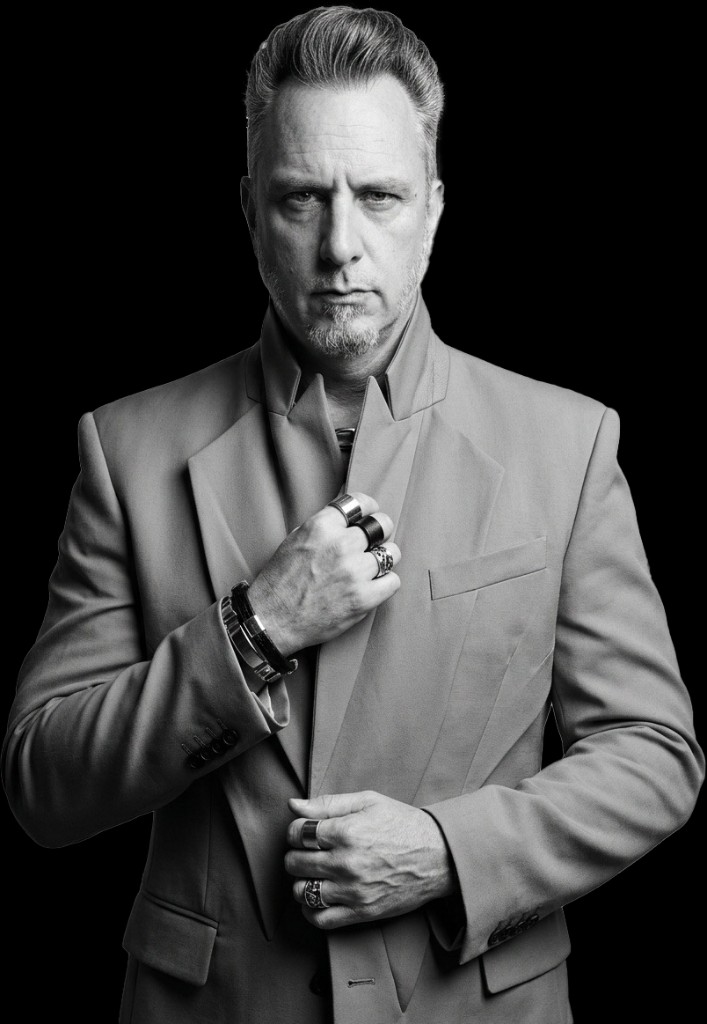
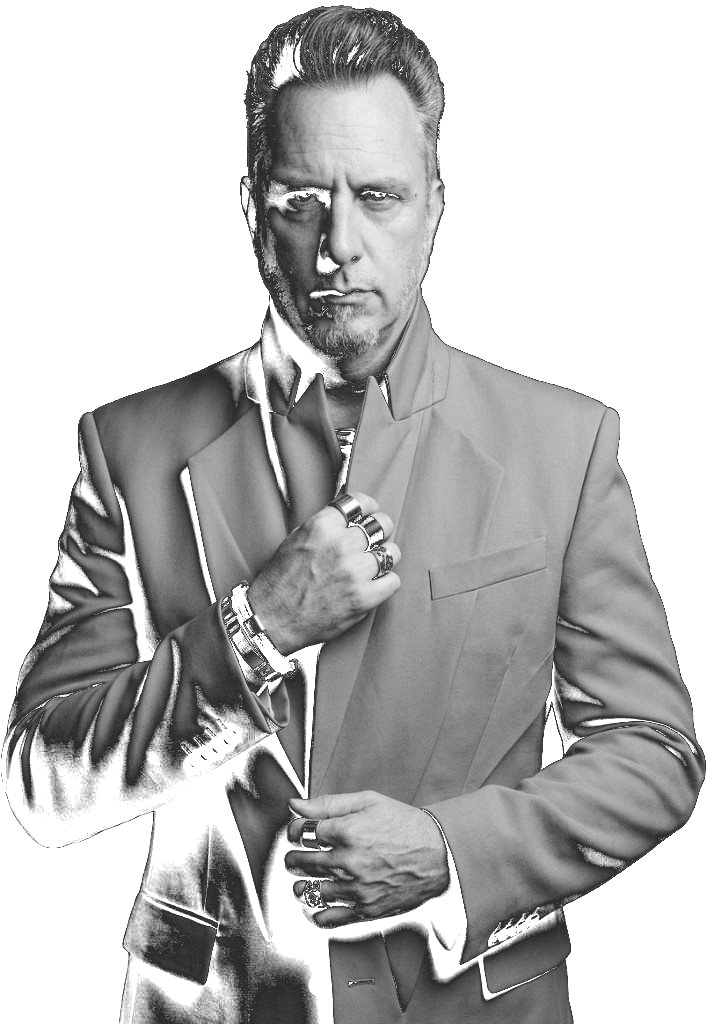
Refine resume site: transparent hero, work reel, skill labels.
Knock out hero portrait background, switch About to close portrait, embed YouTube portfolio in place of stills, and mark skill bars with Expert/Advanced instead of percentages.

diff --git a/src/components/Gallery.tsx b/src/components/Gallery.tsx
@@ -1,47 +1,47 @@
-"use client";
-
-import Image from "next/image";
-import { motion, useReducedMotion } from "motion/react";
-import { gallery } from "@/content/resume";
+import { work } from "@/content/resume";
 import { Reveal } from "./Reveal";
 
 export function Gallery() {
-  const reduce = useReducedMotion();
-
   return (
-    <section id="studio" className="relative py-28 md:py-36">
+    <section id="work" className="relative py-28 md:py-36">
       <div className="mx-auto max-w-6xl px-6">
         <Reveal>
           <p className="section-kicker">03</p>
-          <h2 className="section-title">{gallery.heading}</h2>
-          <p className="mt-4 max-w-2xl text-[var(--muted)]">{gallery.note}</p>
+          <h2 className="section-title">{work.heading}</h2>
+          <p className="mt-4 max-w-2xl text-[var(--muted)]">{work.note}</p>
         </Reveal>
 
-        <div className="mt-14 grid gap-4 md:grid-cols-3 md:gap-5">
-          {gallery.items.map((item, i) => (
-            <Reveal key={item.src} delay={i * 0.08}>
-              <figure className="group relative aspect-[3/4] overflow-hidden bg-black">
-                <Image
-                  src={item.src}
-                  alt={item.alt}
-                  fill
-                  className="object-cover transition-transform duration-700 group-hover:scale-[1.04]"
-                  sizes="(max-width: 768px) 100vw, 33vw"
-                />
-                {!reduce && (
-                  <motion.div
-                    className="pointer-events-none absolute inset-0 opacity-0 transition-opacity duration-500 group-hover:opacity-100"
-                    style={{
-                      background:
-                        "linear-gradient(to top, rgba(7,16,24,0.75), transparent 45%)",
-                    }}
-                    aria-hidden
-                  />
-                )}
-              </figure>
-            </Reveal>
-          ))}
-        </div>
+        <Reveal className="mt-12" delay={0.08}>
+          <div className="overflow-hidden border border-white/10">
+            <div className="relative aspect-video bg-black">
+              <iframe
+                src={work.portfolioVideo.embed}
+                title={work.portfolioVideo.label}
+                allow="accelerometer; autoplay; clipboard-write; encrypted-media; gyroscope; picture-in-picture; web-share"
+                allowFullScreen
+                className="absolute inset-0 h-full w-full"
+              />
+            </div>
+            <div className="flex flex-col gap-3 border-t border-white/10 px-5 py-5 sm:flex-row sm:items-center sm:justify-between">
+              <div>
+                <h3 className="font-[family-name:var(--font-display)] text-xl text-[var(--cream)]">
+                  {work.portfolioVideo.label}
+                </h3>
+                <p className="mt-1 text-sm text-[var(--muted)]">
+                  {work.portfolioVideo.detail}
+                </p>
+              </div>
+              <a
+                href={work.portfolioVideo.href}
+                target="_blank"
+                rel="noopener noreferrer"
+                className="shrink-0 rounded-full border border-white/20 px-5 py-2.5 text-sm text-[var(--cream)] transition-colors hover:border-[var(--accent)] hover:text-[var(--accent)]"
+              >
+                Open on YouTube
+              </a>
+            </div>
+          </div>
+        </Reveal>
       </div>
     </section>
   );

diff --git a/src/components/Skills.tsx b/src/components/Skills.tsx
@@ -44,19 +44,16 @@ export function Skills() {
             ))}
           </div>
 
-          <div className="space-y-6">
+          <div className="space-y-8">
             {skills.meters.map((meter, i) => (
               <Reveal key={meter.name} delay={0.05 + i * 0.05}>
                 <div>
-                  <div className="mb-2 flex justify-between text-sm">
-                    <span className="text-[var(--cream)]">{meter.name}</span>
-                    <span className="font-mono text-[var(--muted)]">{meter.level}%</span>
-                  </div>
-                  <div className="h-1.5 overflow-hidden rounded-full bg-white/10">
+                  <p className="mb-3 text-sm text-[var(--cream)]">{meter.name}</p>
+                  <div className="relative h-1.5 rounded-full bg-white/10">
                     <motion.div
-                      className="h-full rounded-full bg-gradient-to-r from-[var(--cream)] to-[var(--accent)]"
-                      initial={reduce ? { width: `${meter.level}%` } : { width: 0 }}
-                      whileInView={{ width: `${meter.level}%` }}
+                      className="absolute inset-y-0 left-0 rounded-full bg-gradient-to-r from-[var(--cream)] to-[var(--accent)]"
+                      initial={reduce ? { width: `${meter.width}%` } : { width: 0 }}
+                      whileInView={{ width: `${meter.width}%` }}
                       viewport={{ once: true, margin: "-40px" }}
                       transition={{
                         duration: 1.1,
@@ -64,6 +61,22 @@ export function Skills() {
                         delay: 0.1,
                       }}
                     />
+                    <motion.div
+                      className="absolute top-full -translate-x-1/2 pt-1.5"
+                      style={{ left: `${meter.width}%` }}
+                      initial={reduce ? { opacity: 1 } : { opacity: 0 }}
+                      whileInView={{ opacity: 1 }}
+                      viewport={{ once: true, margin: "-40px" }}
+                      transition={{ duration: 0.4, delay: 0.7 }}
+                    >
+                      <span
+                        className="mx-auto block h-0 w-0 border-x-[5px] border-t-[7px] border-x-transparent border-t-[var(--accent)]"
+                        aria-hidden
+                      />
+                      <span className="mt-1 block whitespace-nowrap text-center font-mono text-[10px] uppercase tracking-[0.18em] text-[var(--accent)]">
+                        {meter.proficiency}
+                      </span>
+                    </motion.div>
                   </div>
                 </div>
               </Reveal>

diff --git a/src/content/resume.ts b/src/content/resume.ts
@@ -114,12 +114,12 @@ export const skills = {
     },
   ],
   meters: [
-    { name: "Articulate Rise & Storyline", level: 95 },
-    { name: "PowerPoint animation & video", level: 98 },
-    { name: "Synthesia AI video", level: 90 },
-    { name: "Canvas LMS", level: 85 },
-    { name: "Premiere / After Effects", level: 80 },
-    { name: "Vyond / character animation", level: 85 },
+    { name: "Articulate Rise & Storyline", proficiency: "Expert", width: 95 },
+    { name: "PowerPoint animation & video", proficiency: "Expert", width: 98 },
+    { name: "Synthesia AI video", proficiency: "Expert", width: 90 },
+    { name: "Canvas LMS", proficiency: "Advanced", width: 85 },
+    { name: "Premiere / After Effects", proficiency: "Advanced", width: 80 },
+    { name: "Vyond / character animation", proficiency: "Advanced", width: 85 },
   ],
 };
 
@@ -131,15 +131,16 @@ export const portraits = {
   texture: "/images/texture-concrete.png",
 };
 
-/** Visual identity strip — studio portraits (not client work) */
-export const gallery = {
-  heading: "Studio",
-  note: "Portrait studies — black & white, high contrast.",
-  items: [
-    { src: "/images/portrait-rim.png", alt: "Chris Rosenau — rim light portrait" },
-    { src: "/images/portrait-side.png", alt: "Chris Rosenau — side-lit portrait" },
-    { src: "/images/portrait-close.png", alt: "Chris Rosenau — close portrait" },
-  ],
+/** Selected work — video reel for now; stills can be added later */
+export const work = {
+  heading: "Selected work",
+  note: "A look at past courses, video, and learning media.",
+  portfolioVideo: {
+    href: "https://www.youtube.com/watch?v=ja7QZxXej7w",
+    embed: "https://www.youtube.com/embed/ja7QZxXej7w",
+    label: "Watch portfolio reel",
+    detail: "2-year portfolio overview",
+  },
 };
 
 export const education = [

diff --git a/src/components/Hero.tsx b/src/components/Hero.tsx
@@ -87,22 +87,20 @@ export function Hero() {
         </div>
 
         <motion.div
-          className="relative mx-auto w-full max-w-sm md:col-span-5 md:max-w-none"
+          className="relative mx-auto w-full max-w-md md:col-span-5 md:max-w-none"
           initial={reduce ? false : { opacity: 0, x: 40, scale: 0.96 }}
           animate={{ opacity: 1, x: 0, scale: 1 }}
           transition={{ duration: 1, ease: [0.22, 1, 0.36, 1], delay: 0.35 }}
         >
-          <div className="relative aspect-[3/4] overflow-hidden">
+          <div className="relative aspect-[3/4]">
             <Image
               src={portraits.hero}
               alt={`${site.name} portrait`}
               fill
               priority
-              className="object-cover object-top"
+              className="object-contain object-bottom"
               sizes="(max-width: 768px) 90vw, 40vw"
             />
-            <div className="pointer-events-none absolute inset-0 bg-gradient-to-t from-[var(--ink)] via-transparent to-transparent opacity-70" />
-            <div className="pointer-events-none absolute inset-y-0 left-0 w-1/4 bg-gradient-to-r from-[var(--ink)] to-transparent opacity-60 md:opacity-40" />
           </div>
         </motion.div>
       </div>

diff --git a/src/components/About.tsx b/src/components/About.tsx
@@ -20,8 +20,8 @@ export function About() {
           <Reveal className="relative md:col-span-5" delay={0.05}>
             <div className="relative aspect-[4/5] overflow-hidden bg-black">
               <Image
-                src={portraits.rim}
-                alt="Chris Rosenau — rim light portrait"
+                src={portraits.close}
+                alt="Chris Rosenau — portrait"
                 fill
                 className="object-cover object-center"
                 sizes="(max-width: 768px) 100vw, 40vw"

diff --git a/src/components/Nav.tsx b/src/components/Nav.tsx
@@ -7,7 +7,7 @@ import { site } from "@/content/resume";
 const links = [
   { href: "#about", label: "About" },
   { href: "#experience", label: "Experience" },
-  { href: "#studio", label: "Studio" },
+  { href: "#work", label: "Work" },
   { href: "#skills", label: "Skills" },
   { href: "#contact", label: "Contact" },
 ];

diff --git a/public/images/README.md b/public/images/README.md
@@ -2,10 +2,8 @@
 
 | File | Use |
 |---|---|
-| `portrait-hero.png` | Hero (blazer) |
-| `portrait-rim.png` | About |
-| `portrait-side.png` | Studio gallery |
-| `portrait-close.png` | Studio gallery |
+| `portrait-hero.png` | Hero cutout (transparent background) |
+| `portrait-close.png` | About |
 | `texture-concrete.png` | Hero background texture |
 
-Replace any file with the same name to update the site.
+Work samples currently use the YouTube portfolio reel embed. Add stills later when ready.